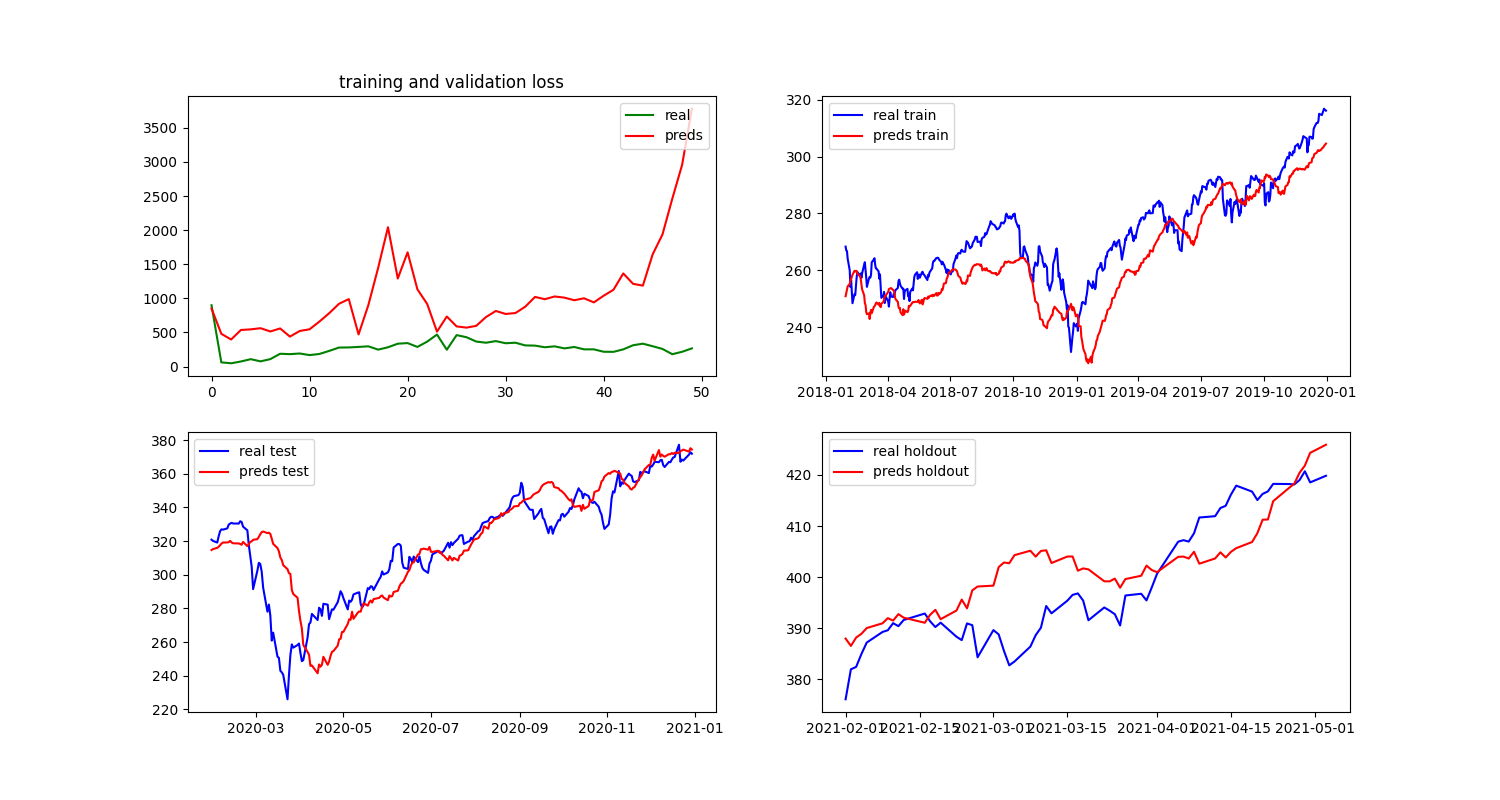
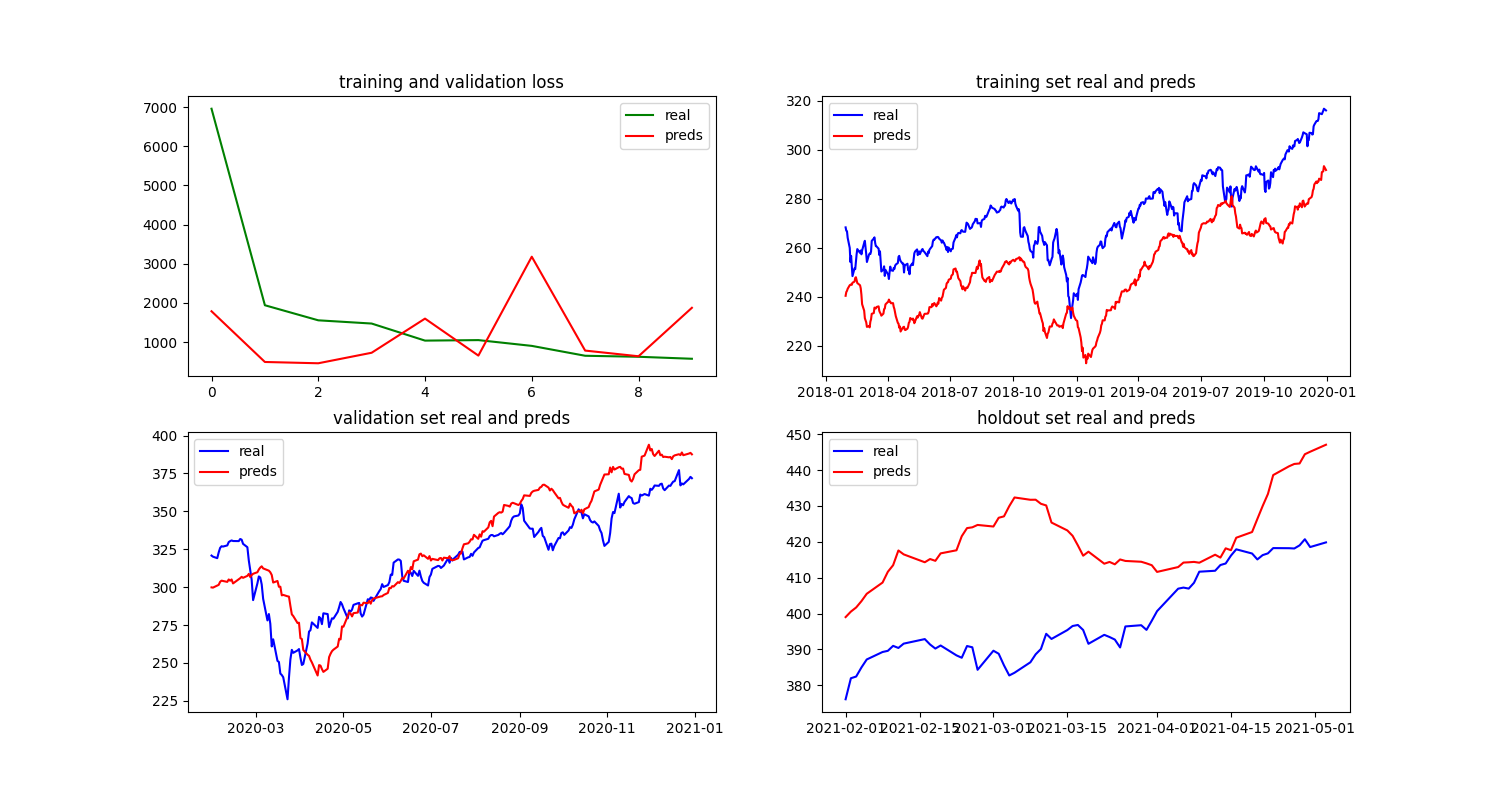
data commit

diff --git a/predict_index/predictIndex.py b/predict_index/predictIndex.py
@@ -11,11 +11,12 @@ print('[INFO] Importing packages.')
 import tensorflow as tf
 import tensorflow.keras.models as models
 import tensorflow.keras.layers as layers
+from tensorflow.keras.layers import Dropout
 import tensorflow.keras.datasets as datasets
 import tensorflow.keras.optimizers as optimizers
 import tensorflow.keras.losses as losses
 import sklearn.preprocessing as preprocessing
-from tensorflow.keras.layers.experimental import preprocessing as preprocessing2
+# from tensorflow.keras.layers.experimental import preprocessing as preprocessing2
 import matplotlib.pyplot as plt
 import numpy as np
 import pandas as pd
@@ -62,7 +63,7 @@ testEnd = "2020-12-31"
 holdoutStart = "2021-1-1"
 holdoutEnd = "2021-5-4"
 
-LOAD_DATASET = True           #set to false when testing architecture
+LOAD_DATASET = False           #set to false when testing architecture
 USE_ALL_STOCKS = True         #set to false for just testing
 OHLC = 1                      #open = 0, high = 1, low = 2, close = 3
 
@@ -75,7 +76,7 @@ expectedHoldout = 64            #find with test run
 QUICK_RUN = False              #for just testing code
 
 TRAIN = True
-TRAIN_EPOCHS = 50
+TRAIN_EPOCHS = 10
 BATCH_SIZE_TRAIN = 4
 BATCH_SIZE_TEST = 4
 
@@ -377,7 +378,7 @@ def makeNewFolder(version):
 #saves pyplot to folder for later analysis
 def savePyPlot(newFolderPath, version, holdoutItems, testItems):
     print("[INFO] Saving Pyplot.")
-    fig = getJustPriceGraph(holdoutItems, testItems)
+    fig = getLossAndPriceGraph(holdoutItems, testItems)
     plt.savefig(f"{newFolderPath}/{daysBefore}_{daysAhead}_{version}.png")
 #saves text file of included stocks to folder
 def saveIncludedStocks(newFolderPath):
@@ -407,23 +408,26 @@ def getLossAndPriceGraph(results, holdoutItems, testItems, trainItems):
     #training and validation loss
     plt1 = fig.add_subplot(221)
     plt1.title.set_text("training and validation loss")
-    plt1.plot(np.arange(0, TRAIN_EPOCHS), results.history['loss'], color="green", label="real")
-    plt1.plot(np.arange(0, TRAIN_EPOCHS), results.history['val_loss'], color="red", label="preds")
+    plt1.plot(np.arange(0, TRAIN_EPOCHS), results.history['loss'], color="green", label="training")
+    plt1.plot(np.arange(0, TRAIN_EPOCHS), results.history['val_loss'], color="red", label="validation")
     plt1.legend(loc='upper right')
     #training set
     plt2 = fig.add_subplot(222)
-    plt2.plot(trainItems[0], trainItems[1], color="blue", label="real train")
-    plt2.plot(trainItems[0], trainItems[2], color="red", label="preds train")
+    plt2.title.set_text("training set real and preds")
+    plt2.plot(trainItems[0], trainItems[1], color="blue", label="real")
+    plt2.plot(trainItems[0], trainItems[2], color="red", label="preds")
     plt2.legend(loc='upper left')
     #validation set
     plt3 = fig.add_subplot(223)
-    plt3.plot(testItems[0], testItems[1], color="blue", label="real test")
-    plt3.plot(testItems[0], testItems[2], color="red", label="preds test")
+    plt3.title.set_text("validation set real and preds")
+    plt3.plot(testItems[0], testItems[1], color="blue", label="real")
+    plt3.plot(testItems[0], testItems[2], color="red", label="preds")
     plt3.legend(loc='upper left')
     #holdout set
     plt4 = fig.add_subplot(224)
-    plt4.plot(holdoutItems[0], holdoutItems[1], color="blue", label="real holdout")
-    plt4.plot(holdoutItems[0], holdoutItems[2], color="red", label="preds holdout")
+    plt4.title.set_text("holdout set real and preds")
+    plt4.plot(holdoutItems[0], holdoutItems[1], color="blue", label="real")
+    plt4.plot(holdoutItems[0], holdoutItems[2], color="red", label="preds")
     plt4.legend(loc='upper left')
 
     return fig
@@ -433,13 +437,15 @@ def getJustPriceGraph(holdoutItems, testItems):
     fig.tight_layout()
     #validation set
     plt1 = fig.add_subplot(211)
-    plt1.plot(testItems[0], testItems[1], color="blue", label="real test")
-    plt1.plot(testItems[0], testItems[2], color="red", label="preds test")
+    plt1.title.set_text("validation set real and preds")
+    plt1.plot(testItems[0], testItems[1], color="blue", label="real")
+    plt1.plot(testItems[0], testItems[2], color="red", label="preds")
     plt1.legend(loc='upper left')
     #holdout set
     plt2 = fig.add_subplot(212)
-    plt2.plot(holdoutItems[0], holdoutItems[1], color="blue", label="real holdout")
-    plt2.plot(holdoutItems[0], holdoutItems[2], color="red", label="preds holdout")
+    plt2.title.set_text("holdout set real and preds")
+    plt2.plot(holdoutItems[0], holdoutItems[1], color="blue", label="real")
+    plt2.plot(holdoutItems[0], holdoutItems[2], color="red", label="preds")
     plt2.legend(loc='upper left')
 
     return fig
@@ -481,30 +487,38 @@ class CNN():
 
         self.model.add(layers.Conv1D(16, 3, input_shape = input_shape, activation = 'relu'))
         self.model.add(layers.BatchNormalization(trainable=False))
+        self.model.add(Dropout(0.05))
 
         # self.model.add(layers.MaxPooling2D(pool_size = 2))
 
         self.model.add(layers.Conv1D(64, 3, activation = 'relu'))
         self.model.add(layers.BatchNormalization(trainable=False))
+        self.model.add(Dropout(0.1))
 
         self.model.add(layers.Conv1D(128, 3, activation = 'relu'))
         self.model.add(layers.BatchNormalization(trainable=False))
+        self.model.add(Dropout(0.15))
 
         self.model.add(layers.Conv1D(256, 3, activation = 'relu'))
         self.model.add(layers.BatchNormalization(trainable=False))
+        self.model.add(Dropout(0.2))
 
         # self.model.add(layers.MaxPooling2D(pool_size = 2))
 
         self.model.add(layers.Flatten())
 
-        # Now, we flatten to one dimension, so we go to just length 400.
-        self.model.add(layers.Dense(2400, activation = 'relu', input_shape = input_shape))
-        self.model.add(layers.Dense(1200, activation = 'relu'))
-        self.model.add(layers.Dense(600, activation = 'relu'))
-        self.model.add(layers.Dense(300, activation = 'relu'))
-        self.model.add(layers.Dense(120, activation = 'relu'))
-        self.model.add(layers.Dense(60, activation = 'relu'))
-        self.model.add(layers.Dense(20, activation = 'relu'))
+        #get to one value
+        # self.model.add(layers.Dense(2400, activation = 'relu', input_shape = input_shape))
+        # self.model.add(layers.Dense(1200, activation = 'relu'))
+        # self.model.add(layers.Dense(600, activation = 'relu'))
+        # self.model.add(layers.Dense(300, activation = 'relu'))
+        # self.model.add(layers.Dense(120, activation = 'relu'))
+        # self.model.add(layers.Dense(60, activation = 'relu'))
+        # self.model.add(layers.Dense(20, activation = 'relu'))
+        # self.model.add(layers.Dense(1))
+
+        self.model.add(layers.Dense(32, activation = 'relu', input_shape = input_shape))
+        self.model.add(layers.Dense(16, activation = 'relu'))
         self.model.add(layers.Dense(1))
 
         #lr=0.001, momentum=0.9
@@ -646,6 +660,9 @@ def train():
 
     numStocks = getNumStocks(testX, trainX, holdoutX)
     cnn = CNN((numStocks, daysBefore))
+
+    print("[INFO] Printing Tensorflow CNN Summary...")
+    print(cnn)
 
     global results
     results = cnn.model.fit(generator(BATCH_SIZE_TRAIN, trainX, trainY),
